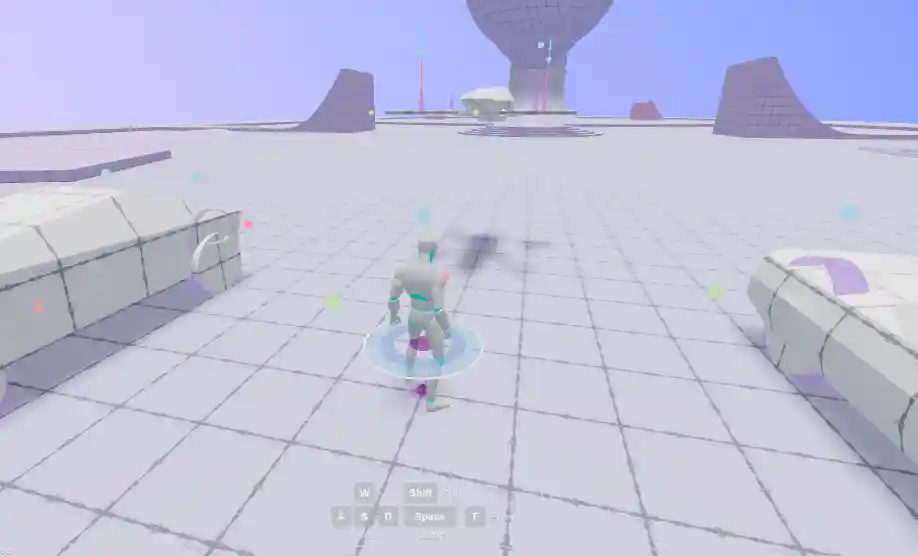
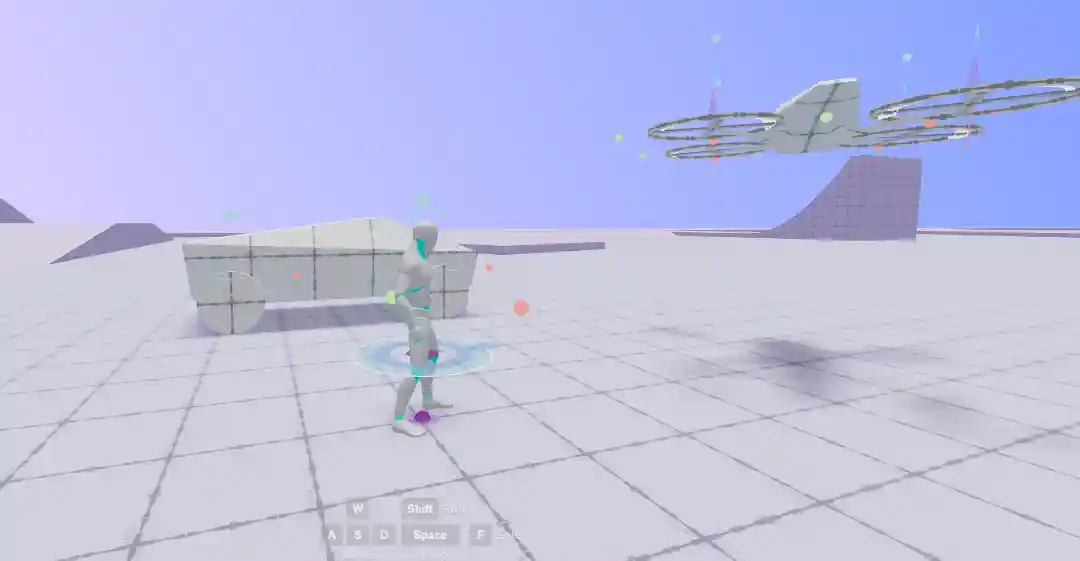
sync projects

diff --git a/githubExamples.js b/githubExamples.js
@@ -376,14 +376,14 @@ export default [
                 githubUrl: 'https://github.com/z2586300277/three-cesium-examples',
                 image: HOST + 'images/openThree.webp',
             },
-{
-                id: 'rubiks-rubrics',
-                name: 'rubiks-rubrics',
-                name_en: 'rubiks-rubrics',
+            {
+                id: 'ecctrl',
+                name: 'ecctrl',
+                name_en: 'ecctrl',
                 author: 'AUTO',
-                openUrl: 'https://leereilly.net/rubiks-rubrics/',
-                githubUrl: 'https://github.com/leereilly/rubiks-rubrics',
-                image: HOST + 'images/rubiks-rubrics.webp',
+                openUrl: 'https://ecctrl.app/',
+                githubUrl: 'https://github.com/pmndrs/ecctrl',
+                image: HOST + 'images/ecctrl.webp',
             },
         ]
     }